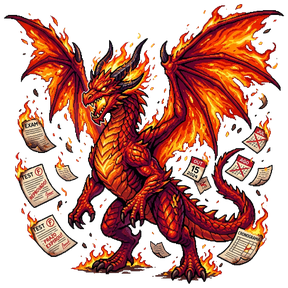
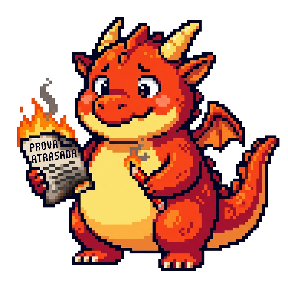
feat(sprites): standardize boss pixel art to 16-bit JRPG style matching pets and add pixel art guide

diff --git a/PIXEL_ART_GUIDE.md b/PIXEL_ART_GUIDE.md
@@ -1,0 +1,59 @@
+# 🎮 Guia de Estilo & Diretrizes de Pixel Art do Omnia (Pixel Art Master Spec)
+
+> **REGRA DE OURO VISUAL DO OMNIA:**
+> Todos os sprites do aplicativo (Mascotes, Chefões de Foco RPG, Ícones e Efeitos de Combate) devem obrigatoriamente seguir este guia de estilo uniforme. **Nenhum elemento em alta resolução, ilustração vetorial realista ou micro-pixel art pode ser misturado com os personagens retro.**
+
+---
+
+## 1. O Problema dos "Mixels" & Princípio da Consistência
+- **O que são Mixels?** Misturar tamanhos diferentes de pixels em uma mesma tela (por exemplo, um mascote em estilo 32x32 com blocos grossos ao lado de um monstro hiperdetalhado com micro-pixels minúsculos).
+- **Diretriz Omnia:** Tanto os Mascotes de Estudo quanto os Chefões da Procrastinação pertencem ao **mesmo universo de RPG clássico de 16-bits (estilo Super Nintendo e Game Boy Advance)**, como em *Chrono Trigger*, *Pokémon GBA* e *EarthBound*.
+
+---
+
+## 2. Especificações Técnicas de Grade (Grid & Dimensions)
+
+| Propriedade | Padrão dos Mascotes (Pets) | Padrão dos Chefões (Bosses) |
+| :--- | :--- | :--- |
+| **Grade Lógica Nativa** | 32×32 a 48×48 pixels | 48×48 a 64×64 pixels |
+| **Resolução Exportada** | 288×288 pixels (Upscale limpo Nearest-Neighbor) | 288×288 pixels (Upscale limpo Nearest-Neighbor) |
+| **Escala de Pixel (Texel)** | Blocos quadrados nítidos de ~6×6 pixels | Blocos quadrados nítidos de ~4×4 a 6×6 pixels |
+| **Renderização CSS** | `image-rendering: pixelated;` | `image-rendering: pixelated;` |
+| **Canal Alpha** | Fundo 100% transparente (sem resíduos brancos) | Fundo 100% transparente (sem resíduos brancos) |
+
+---
+
+## 3. Diretrizes de Desenho & Proporções (Chibi / JRPG)
+
+1. **Silhueta e Proporção:**
+   - Proporção estilizada e expressiva: cabeça grande com feições claras, corpo compacto e elementos acadêmicos icônicos (óculos, chapéu de formatura, ampulheta, livros, canetas).
+   - A silhueta deve ser imediatamente reconhecível a 64px de distância.
+
+2. **Contornos Obligatórios (Outlines):**
+   - Todo personagem deve possuir um **contorno externo escuro fechado (1 a 2 pixels de espessura)**.
+   - Isso garante que o sprite mantenha contraste impecável contra todos os 6 temas do app (do fundo claro do **Aiko** ao fundo preto do **Hacker**).
+
+3. **Paleta de Cores & Cel-Shading:**
+   - Paleta retro limitada: máximo de 4 a 5 gradações por cor (Destaque, Cor Base, Sombra 1, Sombra Profunda).
+   - Sombreamento em blocos definidos (*cel-shading*), sem gradientes contínuos ou difusão aerografada.
+
+4. **Identidade dos 4 Chefões Acadêmicos:**
+   - **Gólem da Procrastinação:** Criatura de pedra ancestral com pedras arredondadas e ampulheta brilhante no peito (Tom: Âmbar/Dourado `#f59e0b`).
+   - **Dragão dos Prazos Atrasados:** Dragãozinho carismático vermelho e laranja, cuspindo chamas e folhas de prova queimadas (Tom: Carmesim/Fogo `#ef4444`).
+   - **Espectro da Exaustão Mental:** Fantasma flutuante violeta envolto em névoa e fumaça de café (Tom: Roxo/Violeta `#8b5cf6`).
+   - **Titã da Prova Final:** Cavaleiro/robô de armadura cibernética magenta e dourada, com espada de caneta e carimbo de nota 10 (Tom: Magenta `#ec4899`).
+
+---
+
+## 4. Estados & Variações Obrigatórias por Personagem
+
+Cada personagem no Omnia deve contar com seus pares de animação e reação:
+
+### Mascotes:
+- `_happy`: Posição padrão acordado, olhos alegres, comemoração.
+- `_focus`: Posição concentrada (olhos compenetrados, lendo ou com óculos).
+- `_sleep`: Posição dormindo (olhos fechados, bolha de sono 'Zzz').
+
+### Chefões:
+- `_idle`: Postura de desafio em pé / flutuando.
+- `_hurt`: Frame clássico de RPG levando golpe (olhos girando ou piscando em branco, tremor, reação de choque cômica).

diff --git a/.gemini/rules/pixel-art-guide.md b/.gemini/rules/pixel-art-guide.md
@@ -1,0 +1,7 @@
+# Pixel Art Uniformity & Art Direction Rule
+
+When creating, editing, or generating pixel art sprites (pets, bosses, animations, icons) for Omnia:
+1. **Unified Aesthetic:** Always follow `PIXEL_ART_GUIDE.md`. Pets and Bosses MUST belong to the exact same 16-bit JRPG retro game style (SNES/GBA style like Chrono Trigger or Pokémon GBA).
+2. **No Mixels:** Bosses must NOT use high-density micro-pixels. They must use the same chunky square pixel grid (~48x48 / 64x64 logical grid upscaled cleanly to 288x288) as the mascots.
+3. **Outlines:** All sprites must have a 1-2px solid dark pixel outline to contrast cleanly on all light and dark themes.
+4. **Color Palettes:** Cel-shaded blocks only, limited retro palette, transparent alpha PNG with zero white fringe.
